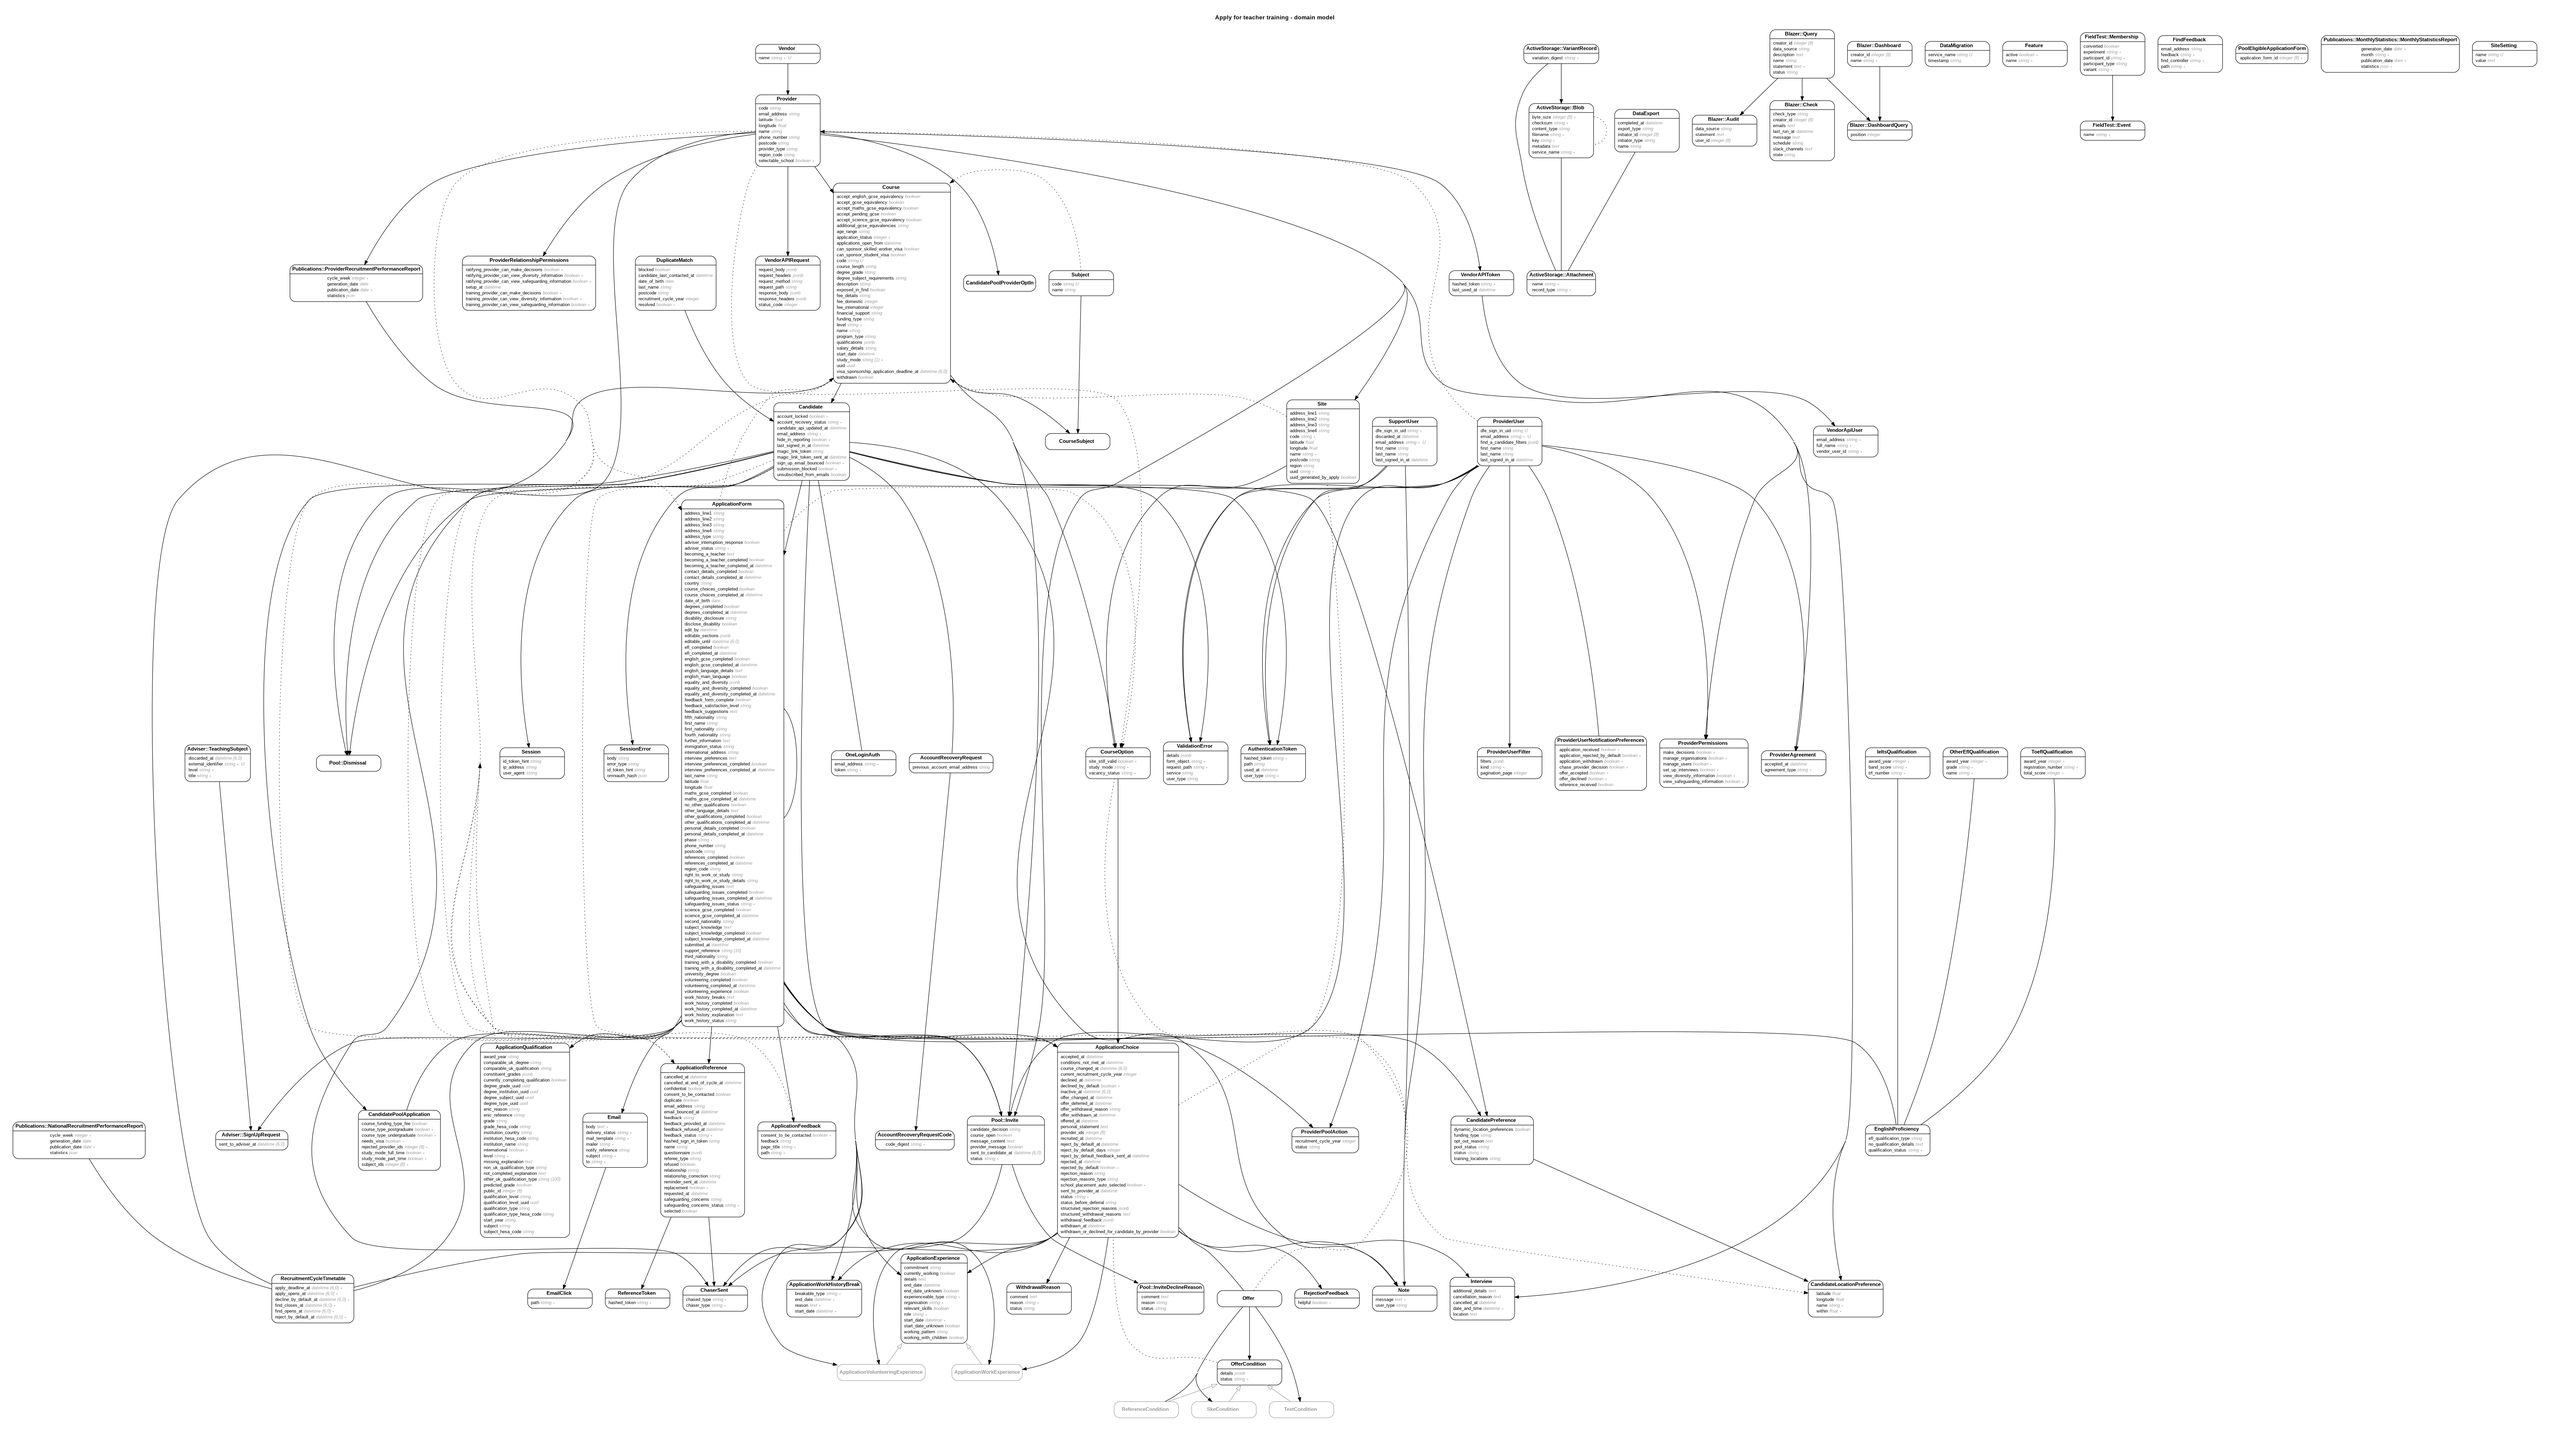
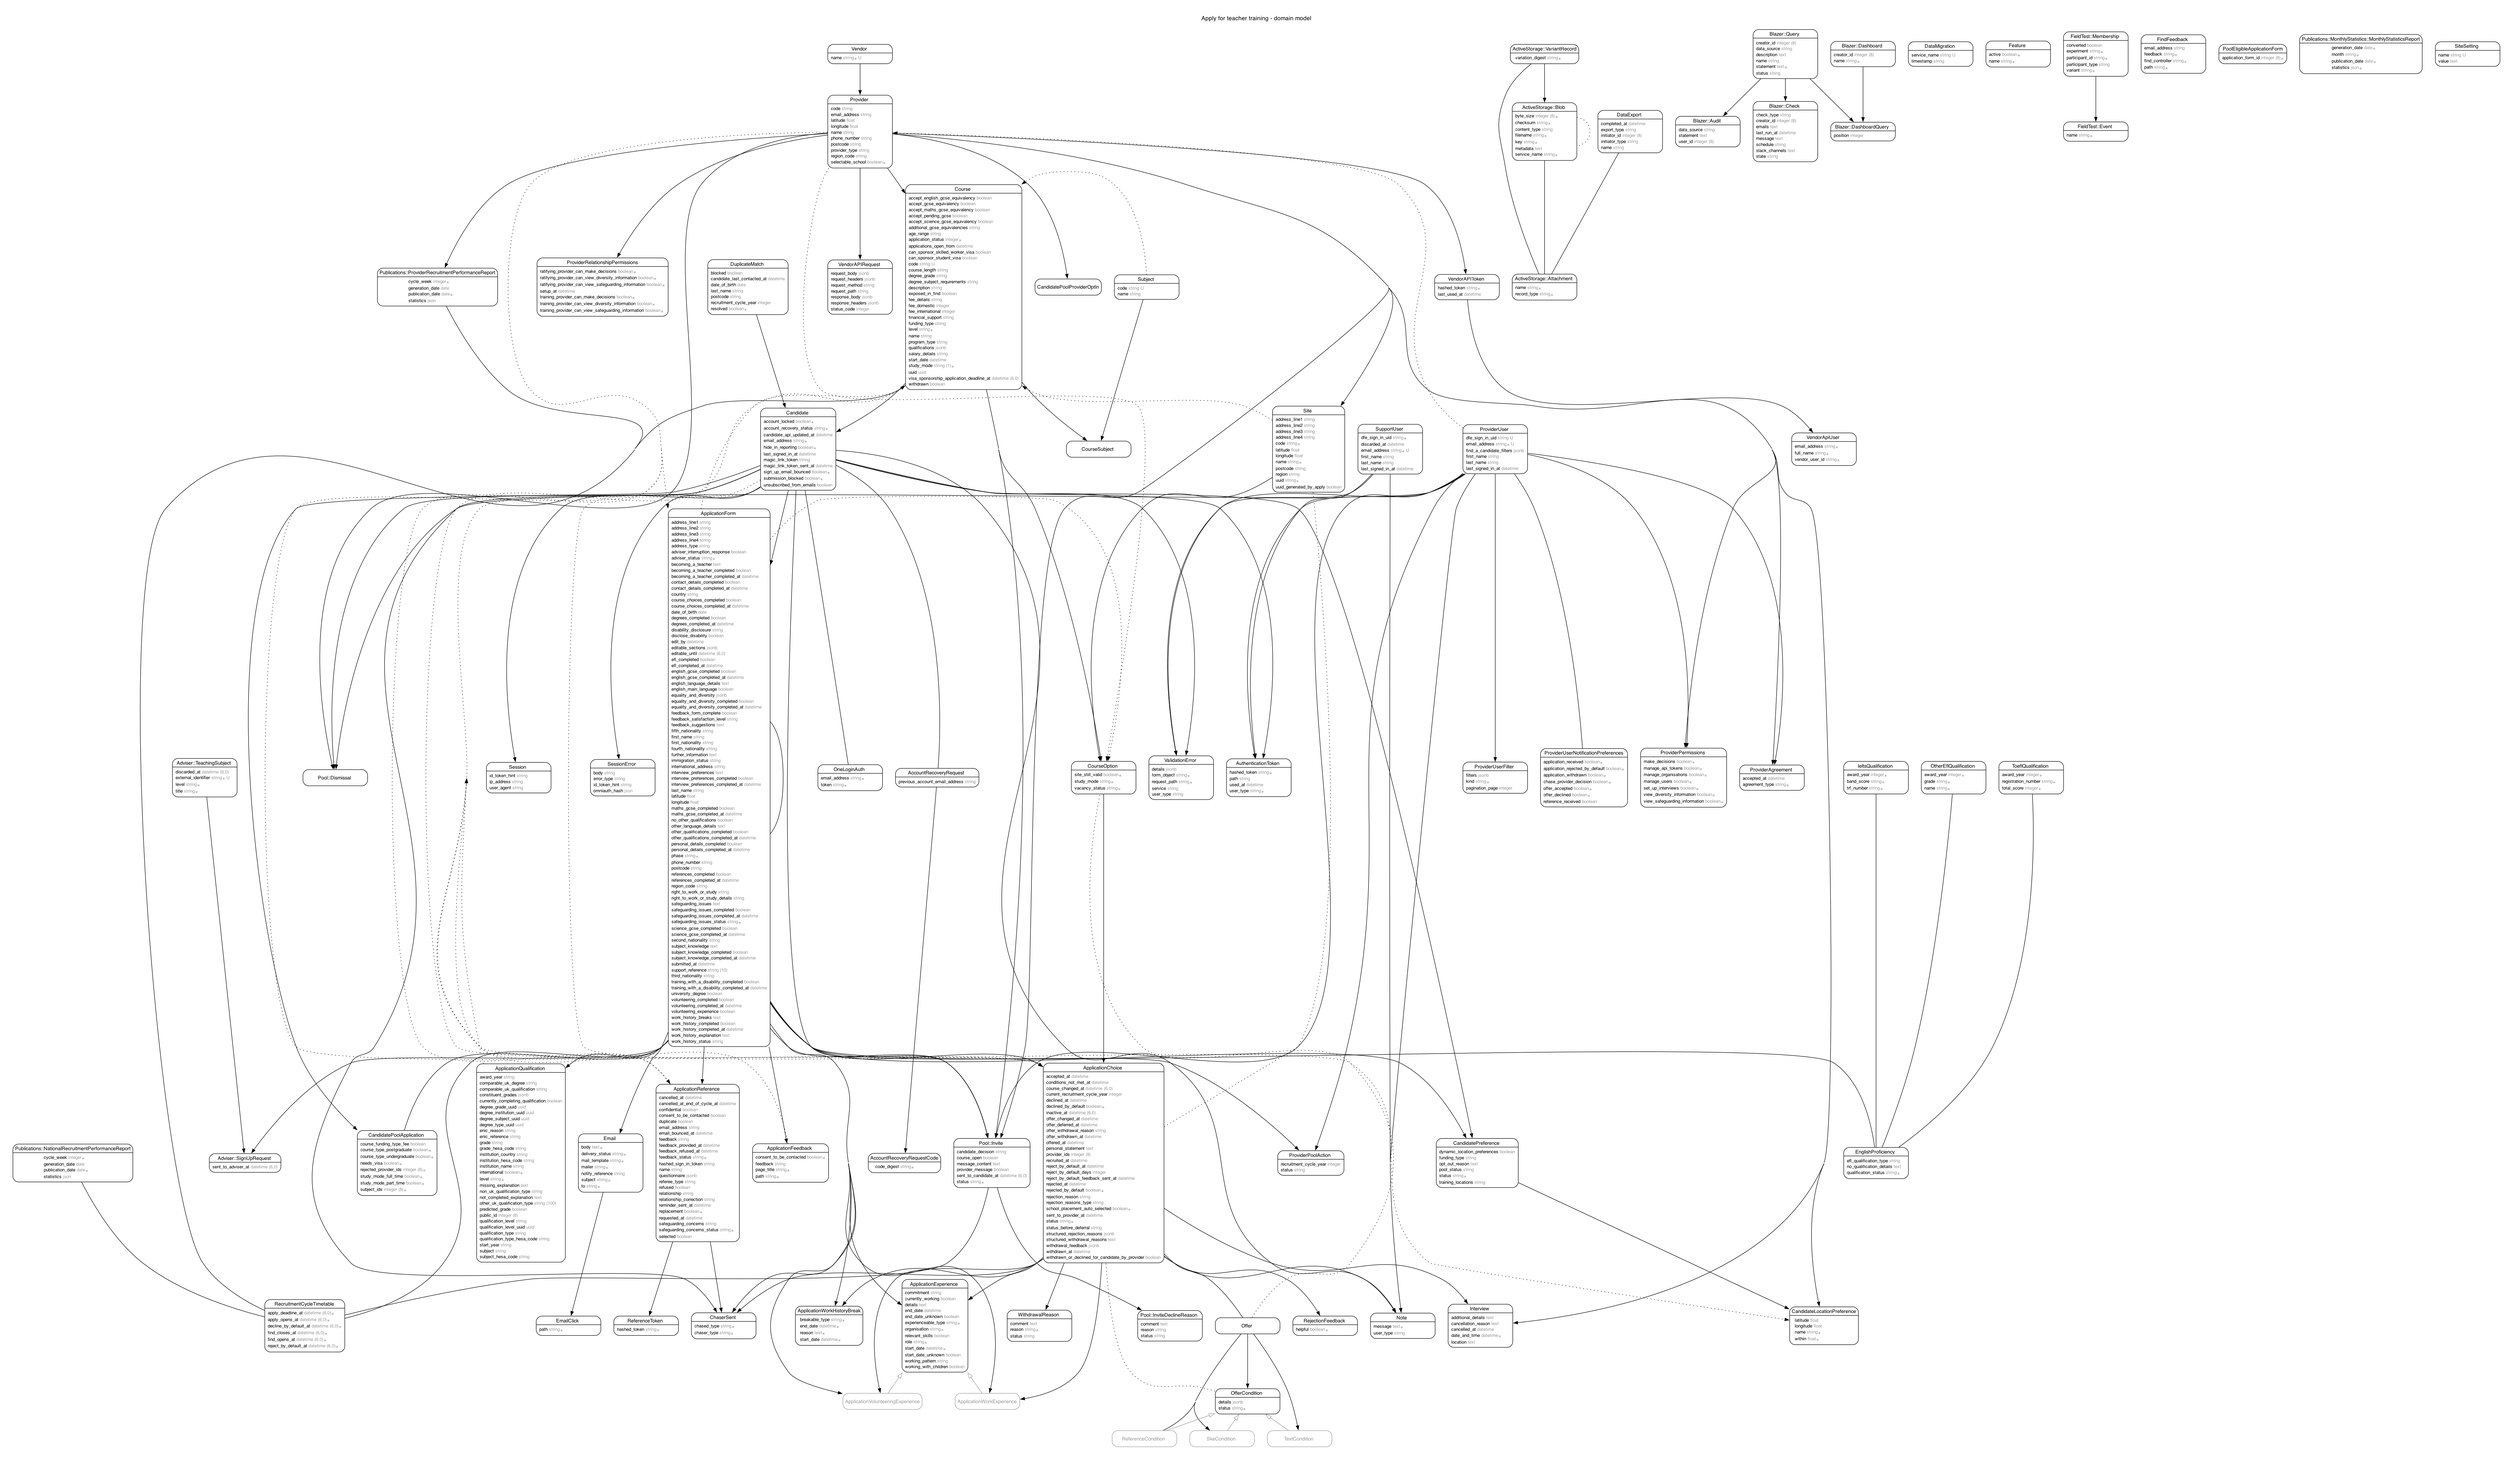
Additional permission for providers to manage API tokens

diff --git a/db/schema.rb b/db/schema.rb
@@ -10,7 +10,7 @@
 #
 # It's strongly recommended that you check this file into your version control system.
 
-ActiveRecord::Schema[8.0].define(version: 2025_07_23_100018) do
+ActiveRecord::Schema[8.0].define(version: 2025_07_25_092232) do
   create_sequence "qualifications_public_id_seq", start: 120000
 
   # These are extensions that must be enabled in order to support this database
@@ -905,6 +905,7 @@ ActiveRecord::Schema[8.0].define(version: 2025_07_23_100018) do
     t.boolean "manage_organisations", default: false, null: false
     t.boolean "view_diversity_information", default: false, null: false
     t.boolean "set_up_interviews", default: false, null: false
+    t.boolean "manage_api_tokens", default: false, null: false
     t.index ["provider_id", "provider_user_id"], name: "index_provider_users_providers_by_provider_and_provider_user", unique: true
     t.index ["provider_id"], name: "index_provider_users_providers_on_provider_id"
     t.index ["provider_user_id"], name: "index_provider_users_providers_on_provider_user_id"

diff --git a/db/migrate/20250725092232_add_api_token_management_to_provider_user_permissions.rb b/db/migrate/20250725092232_add_api_token_management_to_provider_user_permissions.rb
@@ -1,0 +1,5 @@
+class AddAPITokenManagementToProviderUserPermissions < ActiveRecord::Migration[8.0]
+  def change
+    add_column :provider_users_providers, :manage_api_tokens, :boolean, default: false, null: false
+  end
+end
